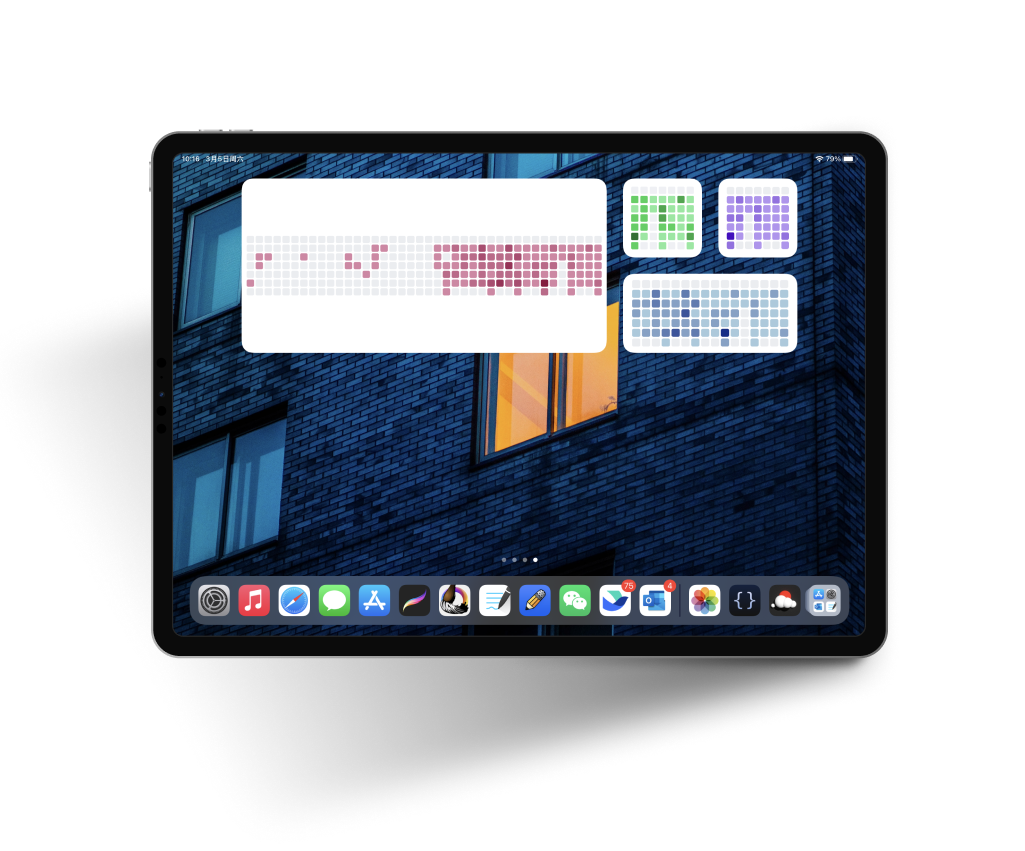
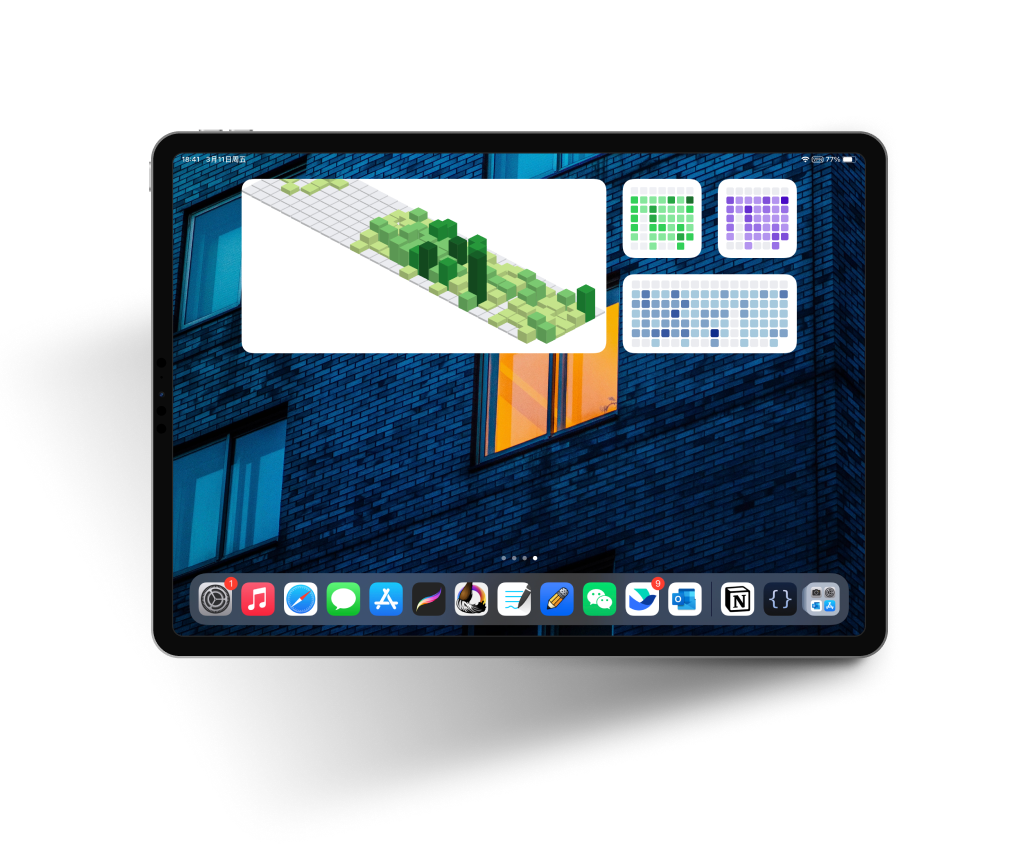
docs(readme): update readme, add 3dbar chart related apis

diff --git a/README-CN.md b/README-CN.md
@@ -43,6 +43,15 @@
 
 ## 配置
 
+```
+${host}/_/${username}?${queryString}
+```
+
+- `username`: Github 用户名
+- `queryString`
+
+**公共请求参数:**
+
 <table>
   <tr>
     <th>参数名</th>
@@ -65,7 +74,8 @@
     <td>chart</td>
     <td><code>enum</code></td>
     <td>
-      图表类型, 目前只支持 <code>calendar</code>
+      图表类型, 可用图表见：
+      <a href="#图表">图表</a>
     </td>
     <td><code>calendar</code></td>
   </tr>
@@ -156,7 +166,7 @@
         </li>
         <li>
           <span>
-          <code>colors=f00&colors=0f0&colors=00f&colors=0ff&colors=f0f&colors=ff0</code>
+          <code>colors=f00&colors=0f0</code>
           </span>
         </li>
       </ul>
@@ -169,6 +179,66 @@
   </tr>
 </table>
 
+**3D柱状图参数:**
+
+<table>
+  <tr>
+    <th>参数名</th>
+    <th>类型</th>
+    <th>描述</th>
+    <th>默认值</th>
+  </tr>
+
+  <tr>
+    <td>gap</td>
+    <td><code>number</code></td>
+    <td>
+    方块之间的间距, 可用值范围为 <code>0</code> 到 <code>20</code>
+    </td>
+    <td>
+      <code>1.2</code>
+    </td>
+  </tr>
+
+  <tr>
+    <td>scale</td>
+    <td><code>number</code></td>
+    <td>
+      调整俯视的角度, 允许不小于 <code>1</code> 的数值
+    </td>
+    <td><code>2</code></td>
+  </tr>
+
+  <tr>
+    <td>light</td>
+    <td><code>number</code></td>
+    <td>
+      调整光照强度, 可用范围为 <code>1</code>
+      到 <code>60</code>
+    </td>
+    <td><code>10</code></td>
+  </tr>
+
+</table>
+
+## 图表
+
+- **calendar**
+  - 使用: `chart=calendar`
+  - 示例
+    ```
+    https://ssr-contributions-svg.vercel.app/_/CatsJuice?chart=calendar&quality=0.3&format=png
+    ```
+    ![Calendar](https://ssr-contributions-svg.vercel.app/_/CatsJuice?chart=calendar&quality=0.3&format=png)
+- **3dbar**
+  - 使用: `chart=3dbar`
+  - 示例
+    ```
+    https://ssr-contributions-svg.vercel.app/_/CatsJuice?chart=3dbar&quality=0.3&format=png
+    ```
+    ![3DBar](https://ssr-contributions-svg.vercel.app/_/CatsJuice?chart=3dbar&quality=0.3&format=png)
+
+
 ## 主题
 
 所有可用主题（实时更新）:
@@ -180,7 +250,7 @@
 - 贴到 Notion 的页面中
   ![notion](./assets/notion.png)
 
-- 作为 ios 小组件使用 [Scritable](https://apps.apple.com/cn/app/scriptable/id1405459188), code example:
+- 作为 ios 小组件使用 [Scritable](https://apps.apple.com/cn/app/scriptable/id1405459188), 示例代码:
   ```js
     let url = "https://ssr-contributions-svg.vercel.app/_/CatsJuice?format=png&quality=2&theme=red&widget_size=midium"
 

diff --git a/README.md b/README.md
@@ -43,6 +43,14 @@
 
 ## Configuration
 
+```
+${host}/_/${username}?${queryString}
+```
+
+- `username`: Github username
+- `queryString`
+
+**Common parameters:**
 <table>
   <tr>
     <th>param</th>
@@ -65,7 +73,7 @@
     <td>chart</td>
     <td><code>enum</code></td>
     <td>
-      Chart type, only <code>calendar</code> supported yet
+      Chart type, See <a href="#charts">Charts</a>
     </td>
     <td><code>calendar</code></td>
   </tr>
@@ -156,7 +164,7 @@
         </li>
         <li>
           <span>
-          <code>colors=f00&colors=0f0&colors=00f&colors=0ff&colors=f0f&colors=ff0</code>
+          <code>colors=f00&colors=0f0</code>
           </span>
         </li>
       </ul>
@@ -167,7 +175,68 @@
     </td>
     <td><code>undefined</code></td>
   </tr>
+
 </table>
+
+**3DBar chart parameters:**
+
+<table>
+  <tr>
+    <th>param</th>
+    <th>type</th>
+    <th>desc</th>
+    <th>default</th>
+  </tr>
+
+  <tr>
+    <td>gap</td>
+    <td><code>number</code></td>
+    <td>
+    Gap size between cubes, allowed numbers from <code>0</code> to <code>20</code>
+    </td>
+    <td>
+      <code>1.2</code>
+    </td>
+  </tr>
+
+  <tr>
+    <td>scale</td>
+    <td><code>number</code></td>
+    <td>
+      Adjust vertical top view, allowed numbers not less than <code>1</code>
+    </td>
+    <td><code>2</code></td>
+  </tr>
+
+  <tr>
+    <td>light</td>
+    <td><code>number</code></td>
+    <td>
+      Adjust light intensity, allowed numbers from <code>1</code>
+      to <code>60</code>
+    </td>
+    <td><code>10</code></td>
+  </tr>
+
+</table>
+
+
+## Charts
+
+- **calendar**
+  - use: `chart=calendar`
+  - e.g.
+    ```
+    https://ssr-contributions-svg.vercel.app/_/CatsJuice?chart=calendar&quality=0.3&format=png
+    ```
+    ![Calendar](https://ssr-contributions-svg.vercel.app/_/CatsJuice?chart=calendar&quality=0.3&format=png)
+- **3dbar**
+  - use: `chart=3dbar`
+  - e.g.
+    ```
+    https://ssr-contributions-svg.vercel.app/_/CatsJuice?chart=3dbar&quality=0.3&format=png
+    ```
+    ![3DBar](https://ssr-contributions-svg.vercel.app/_/CatsJuice?chart=3dbar&quality=0.3&format=png)
 
 ## Themes
 
